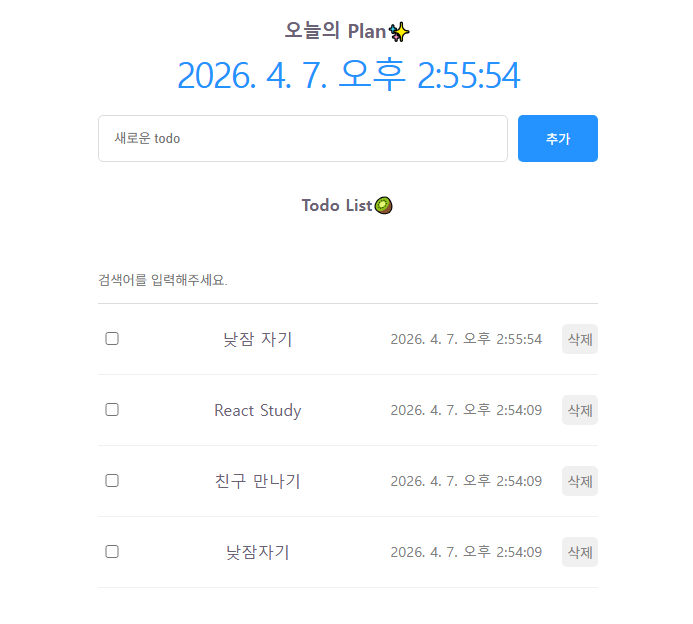
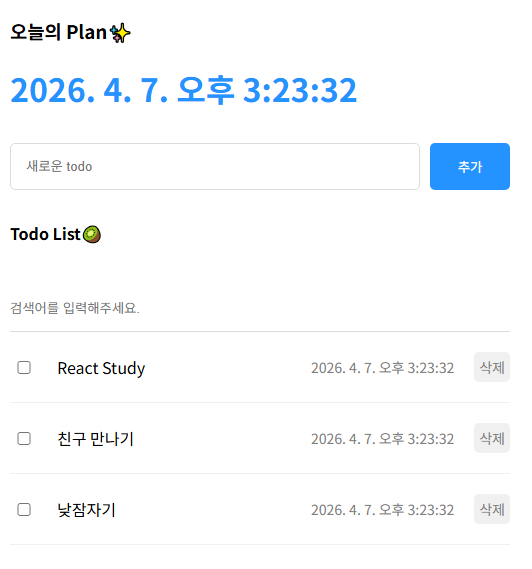
todoList react ver 수정

diff --git a/TodoList_React/assets/index-xOfARI86.css b/TodoList_React/assets/index-xOfARI86.css
@@ -1,0 +1,1 @@
+.App{flex-direction:column;gap:10px;width:500px;margin:0 auto;display:flex}.Header>h1{color:#2593ff}.Editor{gap:10px;display:flex}.Editor input{border:1px solid #dcdcdc;border-radius:5px;flex:1;padding:15px}.Editor button{cursor:pointer;color:#fff;background-color:#2593ff;border:none;border-radius:5px;width:80px}.List{flex-direction:column;gap:20px;display:flex}.List>input{border:none;border-bottom:1px solid #dcdcdc;width:100%;padding:15px 0}.List>input:focus{border-bottom:1px solid #2593ff;outline:none}.List>.todos_wrapper{flex-direction:column;gap:20px;display:flex}.TodoItem{border-bottom:1px solid #f0f0f0;align-items:center;gap:20px;padding-bottom:20px;display:flex}.TodoItem input{width:20px}.TodoItem .content{flex:1}.TodoItem .date{color:gray;font-size:14px}.TodoItem button{cursor:pointer;color:gray;border:none;border-radius:5px;padding:5px;font-size:14px}

diff --git a/TodoList_React/index.html b/TodoList_React/index.html
@@ -5,8 +5,8 @@
     <link rel="icon" type="image/svg+xml" href="./favicon.svg" />
     <meta name="viewport" content="width=device-width, initial-scale=1.0" />
     <title>todolist</title>
-    <script type="module" crossorigin src="./assets/index-Dz5zEbSN.js"></script>
-    <link rel="stylesheet" crossorigin href="./assets/index-QFitbd45.css">
+    <script type="module" crossorigin src="./assets/index-YhQ29ReT.js"></script>
+    <link rel="stylesheet" crossorigin href="./assets/index-xOfARI86.css">
   </head>
   <body>
     <div id="root"></div>
